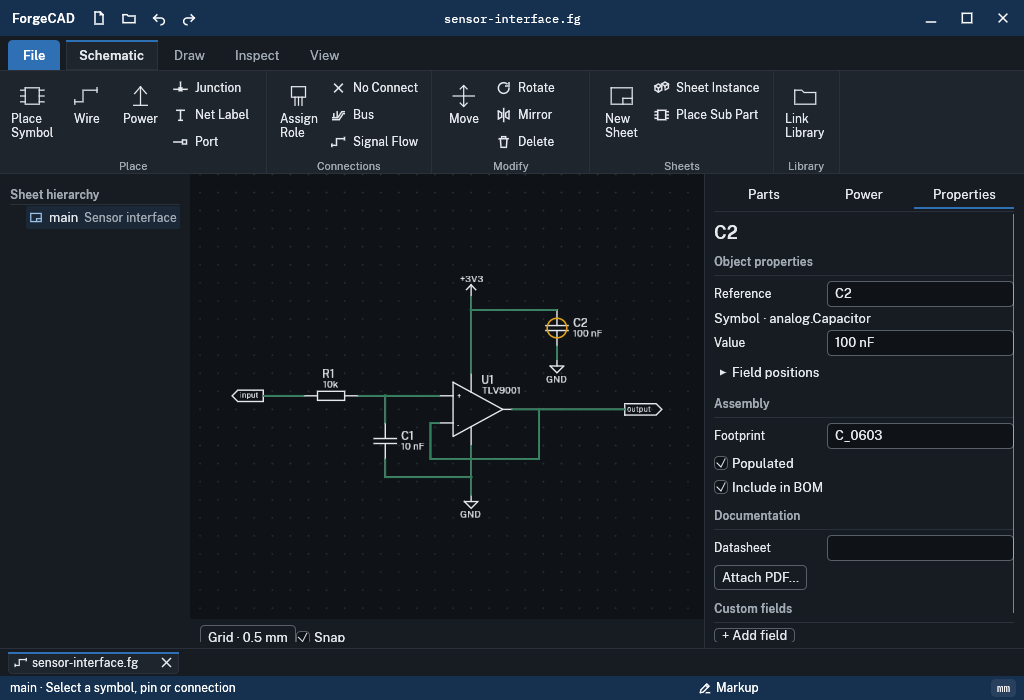
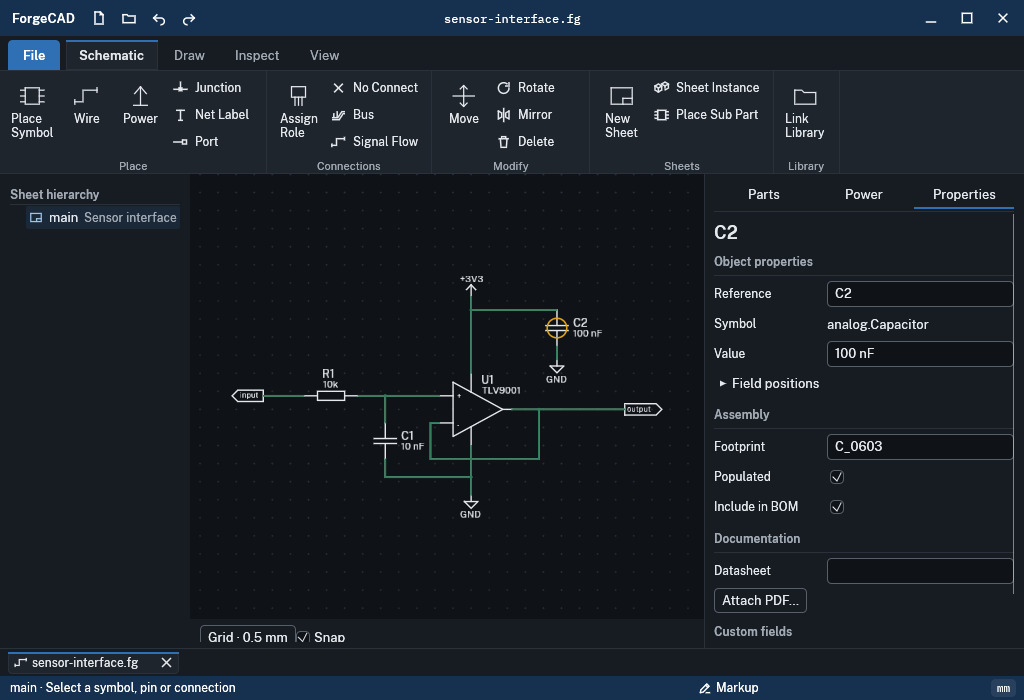
Align schematic component controls in the Properties inspector

Changed region(s): [[0.6875, 0.45, 0.9062, 0.93], [0.8125, 0.6, 1.0, 0.66], [0.8125, 0.78, 1.0, 0.81]]

diff --git a/interface/forge-render/src/shell/electronics/inspector.rs b/interface/forge-render/src/shell/electronics/inspector.rs
@@ -1,20 +1,20 @@
 use super::*;
 use crate::shell::{theme, ux};
 use egui::{ComboBox, RichText};
-fn property_row<R>(ui: &mut Ui, label: &str, control: impl FnOnce(&mut Ui, egui::Id) -> R) -> R {
+fn property_row<R>(ui: &mut Ui, label: &str, control: impl FnOnce(&mut Ui, egui::Response) -> R) -> R {
     ui.horizontal(|ui| {
         let width = (ui.available_width() * 0.35).min(116.);
-        let id = ui
+        let caption = ui
             .allocate_ui_with_layout(
                 vec2(width, theme::CONTROL_H),
                 egui::Layout::left_to_right(egui::Align::Center),
                 |ui| {
                     ui.set_width(width);
-                    ui.label(RichText::new(label).font(theme::small())).id
+                    ui.label(RichText::new(label).font(theme::small()))
                 },
             )
             .inner;
-        control(ui, id)
+        control(ui, caption)
     })
     .inner
 }
@@ -22,18 +22,34 @@ fn field(ui: &mut Ui, label: &str, value: &mut String) {
     text_control(ui, label, value);
 }
 fn text_control(ui: &mut Ui, label: &str, value: &mut String) -> egui::Response {
-    property_row(ui, label, |ui, id| {
+    property_row(ui, label, |ui, caption| {
         ui.add_sized(
             [ui.available_width(), theme::CONTROL_H],
             egui::TextEdit::singleline(value),
         )
-        .labelled_by(id)
+        .labelled_by(caption.id)
         .on_hover_text(value.as_str())
     })
 }
 
+fn checkbox(ui: &mut Ui, label: &str, value: &mut bool) -> egui::Response {
+    property_row(ui, label, |ui, caption| {
+        let caption = caption.interact(egui::Sense::click());
+        if caption.clicked() {
+            *value = !*value;
+        }
+        let mut response = ui
+            .add(egui::Checkbox::without_text(value))
+            .labelled_by(caption.id);
+        if caption.clicked() {
+            response.mark_changed();
+        }
+        response
+    })
+}
+
 fn choice(ui: &mut Ui, label: &str, value: &mut String, items: Vec<String>) {
-    property_row(ui, label, |ui, id| {
+    property_row(ui, label, |ui, caption| {
         ComboBox::from_id_salt(label)
             .selected_text(if value.is_empty() {
                 "Choose…"
@@ -47,7 +63,7 @@ fn choice(ui: &mut Ui, label: &str, value: &mut String, items: Vec<String>) {
                 }
             })
             .response
-            .labelled_by(id);
+            .labelled_by(caption.id);
     });
 }
 fn custom(ui: &mut Ui, rows: &mut Vec<(String, String)>) {
@@ -703,7 +719,7 @@ impl Editor {
                         ui.label(format!("Global power net · {net}"));
                     } else if self.library() || matches!(part, Some(Item::Place { .. })) {
                         if let Some(Item::Place { symbol, .. }) = part {
-                            ui.label(format!("Symbol · {symbol}"));
+                            property_row(ui, "Symbol", |ui, _| ui.label(symbol));
                             field(ui, "Value", &mut self.form.value);
                             ui.collapsing("Field positions", |ui| {
                                 for (label, offset) in [
@@ -711,8 +727,7 @@ impl Editor {
                                     ("Value", &mut self.form.value_offset),
                                 ] {
                                     let mut manual = offset.is_some();
-                                    if ui
-                                        .checkbox(&mut manual, format!("Position {label} manually"))
+                                    if checkbox(ui, &format!("Manual {label} position"), &mut manual)
                                         .changed()
                                     {
                                         *offset = manual.then_some([0., 0.]);
@@ -733,8 +748,8 @@ impl Editor {
                             });
                             sheet.section(ui, "Assembly");
                             field(ui, "Footprint", &mut self.form.footprint);
-                            ui.checkbox(&mut self.form.populated, "Populated");
-                            ui.checkbox(&mut self.form.in_bom, "Include in BOM");
+                            checkbox(ui, "Populated", &mut self.form.populated);
+                            checkbox(ui, "Include in BOM", &mut self.form.in_bom);
                         }
                         if let Some(Item::Place { symbol, .. }) = part {
                             let base = &self.doc.symbols[symbol];
